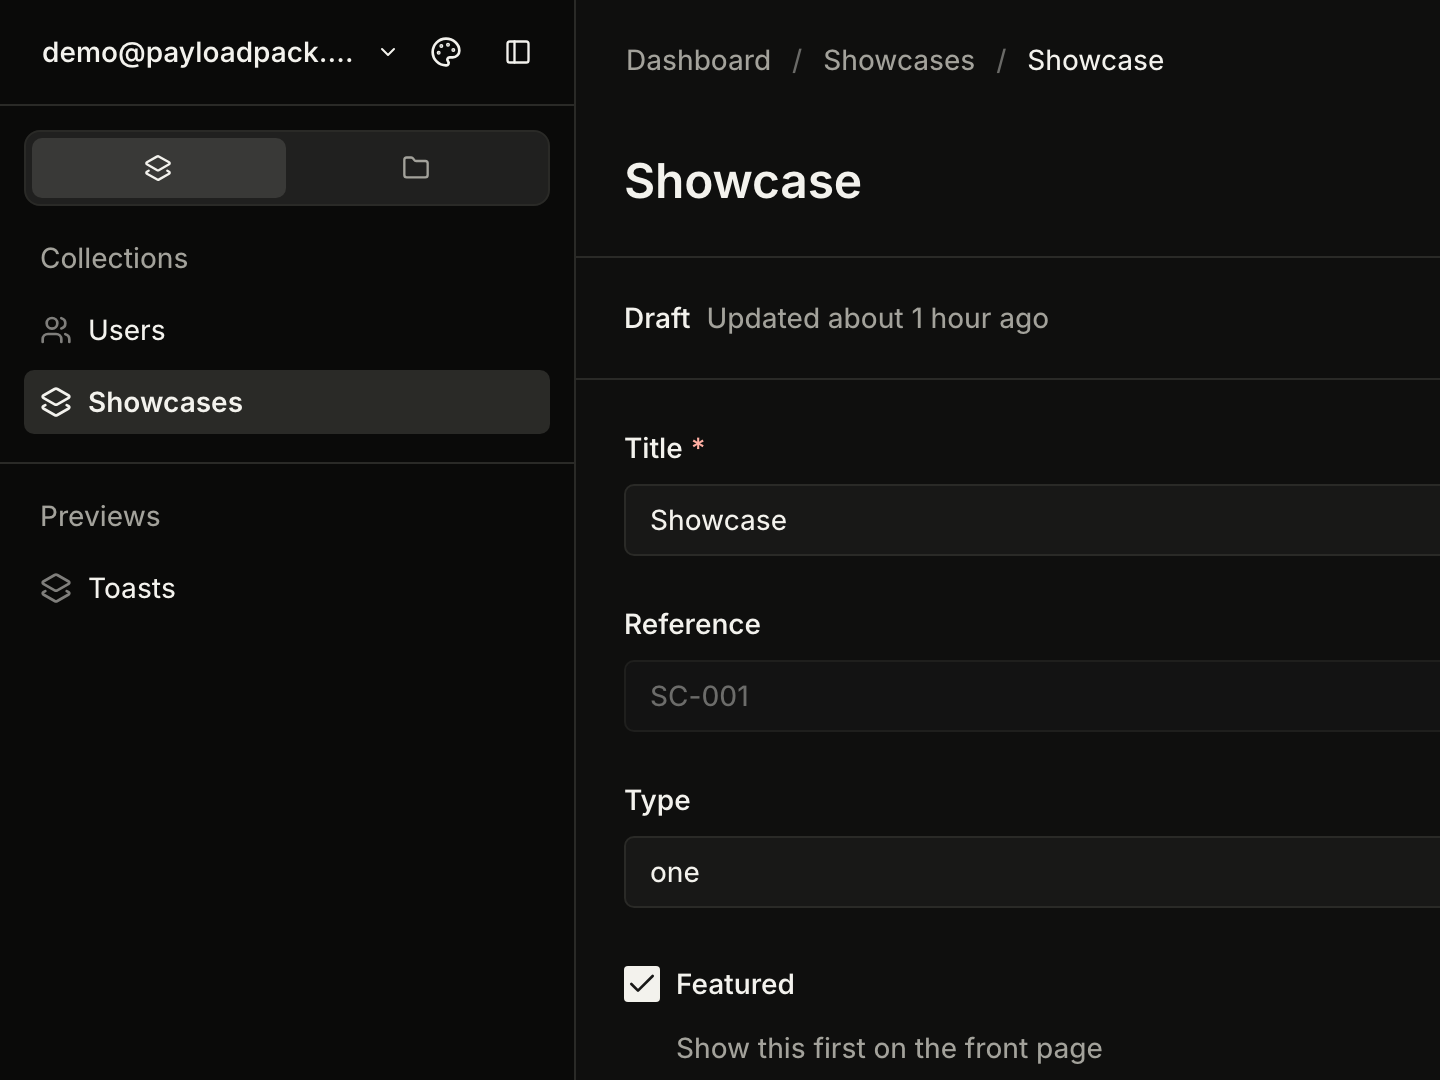
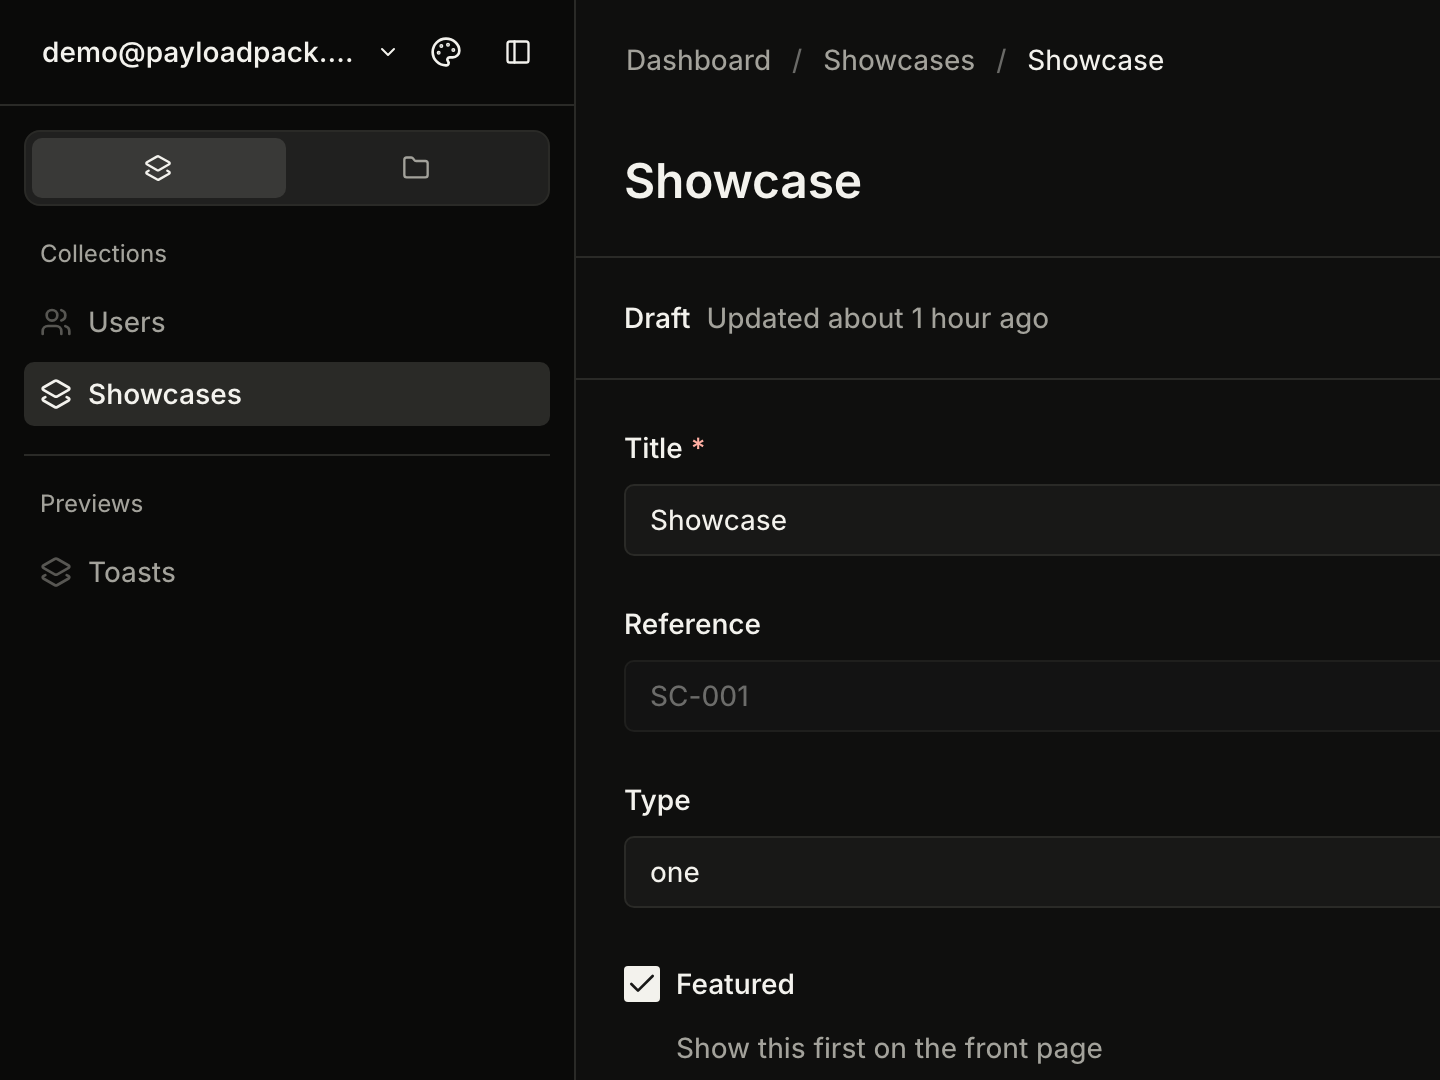
feat(nav): raise the selected link and mute the rest

diff --git a/apps/demo/tests/theme.e2e.spec.ts b/apps/demo/tests/theme.e2e.spec.ts
@@ -590,6 +590,8 @@ test.describe('Theme values', () => {
       expect(nav.width).toBe(288)
       expect(nav.highlight).toEqual(nav.tabs)
       expect(nav.chevron).toBe(20)
+      expect(await style(page, '.nav-group__toggle', 'font-size')).toBe('12px')
+      expect(await style(page, '.nav-group:not(:first-child)', 'margin-left', '::before')).toBe('12px')
       expect(await style(page, '.nav-group__toggle', 'inset', '::before')).toBe(await style(page, '.nav__link', 'inset', '::before'))
     })
   }
@@ -1076,6 +1078,24 @@ test.describe('Every palette but Payload', () => {
         })
       }
 
+      test('the selected nav link is raised like the active sidebar tab, and the other links are muted', async ({ page }) => {
+        await page.context().addCookies([cookie('theme', 'light')])
+        await page.goto('/admin/collections/showcase')
+        const raised = (selector: string, pseudo?: string) =>
+          page
+            .locator(selector)
+            .first()
+            .evaluate((element, pseudoElement) => {
+              const { backgroundColor, boxShadow } = getComputedStyle(element, pseudoElement)
+              return { backgroundColor, boxShadow }
+            }, pseudo)
+
+        expect(await raised('.nav__link--selected', '::before')).toEqual(await raised('.sidebar-tabs__tab--active'))
+        expect(await style(page, '.nav__link:not(.nav__link--selected)', 'color')).toBe(
+          await computedColor(page, 'var(--color-text-secondary)')
+        )
+      })
+
       test('one toggle border token reaches checkboxes and radios', async ({ page }) => {
         await openShowcase(page)
         await page.addStyleTag({ content: 'html { --payloadpack-toggle-border: rgb(255, 0, 0); }' })
@@ -1280,7 +1300,7 @@ test.describe('Custom palette', () => {
     await expect(primary).toHaveCSS('color', 'oklch(1 0 0)')
   })
 
-  test('selected text takes an ink of the accent in light mode, and the selected nav link stays neutral', async ({ page }) => {
+  test('selected text takes an ink of the accent in light mode, and the selected nav link is a neutral raised pill', async ({ page }) => {
     await page.context().addCookies(custom('#c2410c'))
     await page.goto('/admin/collections/showcase')
     const [, , accentHue] = await channels(page, 'oklch', '#c2410c')
@@ -1290,7 +1310,7 @@ test.describe('Custom palette', () => {
     expect(Math.abs(inkHue - accentHue)).toBeLessThan(5)
     expect(await style(page, '.nav__link--selected', 'color')).toBe(await style(page, 'body', 'color'))
     expect(await style(page, '.nav__link--selected', 'background-color', '::before')).toBe(
-      await computedColor(page, 'var(--color-bg-tertiary)')
+      await computedColor(page, 'var(--color-bg-elevated)')
     )
   })
 

diff --git a/packages/theme/src/characters/shared.css b/packages/theme/src/characters/shared.css
@@ -43,6 +43,21 @@
       padding-inline: var(--spacer-2-5);
     }
 
+    .nav-group {
+      border-block-start: 0;
+    }
+
+    .nav-group:not(:first-child)::before {
+      content: '';
+      display: block;
+      margin: calc(-1 * var(--spacer-2)) var(--spacer-2-5) var(--spacer-2);
+      border-block-start: var(--stroke-width-small) solid var(--color-border);
+    }
+
+    .nav__link--selected {
+      font-weight: var(--text-body-medium-bold-font-weight);
+    }
+
     .nav__link,
     .nav-group__toggle {
       padding-inline: calc(var(--spacer-2-5) + var(--spacer-2));

diff --git a/packages/theme/src/palettes/palette.css b/packages/theme/src/palettes/palette.css
@@ -57,8 +57,22 @@
     }
 
     /* 4. Nav */
+    .nav__link:not(.nav__link--selected) {
+      color: var(--color-text-secondary);
+
+      &:hover {
+        color: var(--color-text);
+      }
+    }
+
     .nav__link--selected::before {
+      background-color: var(--color-bg-elevated);
+      box-shadow: 0 1px 2px rgb(0 0 0 / 0.08);
+    }
+
+    &[data-theme='dark'] .nav__link--selected::before {
       background-color: var(--color-bg-tertiary);
+      box-shadow: none;
     }
 
     .nav-group__toggle:hover::before {

diff --git a/packages/theme/src/options/density.css b/packages/theme/src/options/density.css
@@ -279,6 +279,11 @@
       inset-block: 2px;
     }
 
+    .nav-group__toggle {
+      font-size: var(--text-body-small-font-size);
+      line-height: var(--text-body-small-line-height);
+    }
+
     /* 7. Rich text */
     .LexicalEditorTheme {
       --lexical-h4-font-size: 1.125rem;

diff --git a/README.md b/README.md
@@ -83,16 +83,16 @@ The panel opens as a sheet on the right and fills the screen on phones. Every ch
 | Motion        | Off, On                | On               | On             |
 | Collapsed nav | Icons, Hidden          | Icons            | Icons          |
 
-- **Enhanced** and **Studio** both draw a 2px focus ring, widen the nav to 288px and line its buttons, tabs and items up 12px from its edges, inset the sidebar tabs, and move each nav group's chevron to the end of its row.
+- **Enhanced** and **Studio** both draw a 2px focus ring, widen the nav to 288px and line its buttons, tabs and items up 12px from its edges, inset the sidebar tabs and the dividers between nav groups, and move each nav group's chevron to the end of its row.
 - **Enhanced** rounds popups and toasts a little more and lifts the date picker and toasts like menus.
 - **Studio** keeps the nav on the field, puts the collapse button at its top left, and moves the user menu to the bottom of it.
-- Every palette except Payload's draws the focus ring in the text color, gives all fields one border color, fades disabled and read-only fields to half their colors, softens checkbox and radio rings, marks the selected nav link and the hovered menu item with a neutral fill instead of the accent, fills a hovered nav group heading like a link, and raises the active sidebar tab like the panel's segments.
+- Every palette except Payload's draws the focus ring in the text color, gives all fields one border color, fades disabled and read-only fields to half their colors, softens checkbox and radio rings, raises the selected nav link like the active sidebar tab in light mode, mutes the other nav links, fills the hovered menu item neutrally instead of with the accent, fills a hovered nav group heading like a link, and raises the active sidebar tab like the panel's segments.
 - **Neutral** puts white cards and inputs on a soft `#f3f4f1` grey with `#111111` text in light mode, gives dark mode a near-black palette, and swaps Payload's blue selection for neutral greys. It fills checked checkboxes and selected radios with the text color instead of the accent.
 - **Studio**, the palette, mixes a faint share of the accent into a warm off-white field and nav, with white cards and lines tinted the same way. Dark mode mixes it into near-black. Selected items take a soft fill of the accent.
 - **Corners** scales Payload's own corner sizes. M keeps them as they are, None squares every corner, S and L make them smaller or larger, and Round is L with pill-shaped buttons.
 - **Geist** loads [Geist](https://vercel.com/font) with `next/font`, the way Payload loads Inter, and only downloads it when an editor uses it. **Payload** keeps Inter. **System** uses the operating system's font.
 - **Boxed** puts each view in a soft card with a border and rounded corners. **Flat** drops the card and keeps the nav's border.
-- **Comfortable** sets 14px body text, 36px fields and buttons, 32px menu items and 18px checkboxes and radios, gives dialogs more room, and fixes Payload components that hard-code their sizes.
+- **Comfortable** sets 14px body text, 36px fields and buttons, 32px menu items and 18px checkboxes and radios, keeps nav group labels at 12px, gives dialogs more room, and fixes Payload components that hard-code their sizes.
 - **Lucide** replaces Payload's icons with [Lucide](https://lucide.dev) and adds icons to the nav and the document menu. The icons are bundled, so nothing loads from a CDN.
 - **Motion** brings back the transitions Payload 3 had: tooltips fade, fields, buttons and cards ease between states, every field's focus ring eases in, and switches slide. Popups and select menus fade and scale in from their trigger, nav group chevrons turn, and the Appearance panel slides in like a drawer. Drawers open at once, because Payload unmounts them on close and only their opening could animate. It stays off when the operating system asks for reduced motion.
 - **Icons** as the collapsed nav turns the nav's collapse button into a 64px rail of Lucide icons, with each label as a tooltip. The rail is kept per browser in a `<cookiePrefix>-nav-rail` cookie, so Reset leaves it alone. Below 768px the nav is Payload's own drawer. **Hidden** keeps Payload's own collapse.

diff --git a/docs/appearance.md b/docs/appearance.md
@@ -182,7 +182,7 @@ src/characters/enhanced/index.ts    defaults
 src/characters/enhanced/enhanced.css
 src/characters/studio/index.ts
 src/characters/studio/studio.css
-src/characters/shared.css           what Enhanced and Studio share: the 2px focus ring, the sidebar tabs, the 288px nav on a 12px gutter and the nav group chevron
+src/characters/shared.css           what Enhanced and Studio share: the 2px focus ring, the sidebar tabs, the 288px nav on a 12px gutter, inset group dividers and the nav group chevron
 src/palettes/index.ts               the names of the built-in palettes
 src/palettes/palette.css            derives Payload's colors from each palette's base colors, and what every palette but Payload's shares: focus ring, fields, toggles, date picker and toasts
 src/palettes/neutral.css
